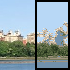
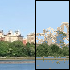
adjusting improved agent

Changed region(s): [[0.5143, 0.0, 1.0, 1.0], [0.6857, 0.7429, 0.7143, 0.7714]]

diff --git a/Report/Report.tex b/Report/Report.tex
@@ -37,7 +37,8 @@ We could measure the quality of the final result using P-Norms between the actua
 \includegraphics[width=.5\textwidth]{Test Image}
 \caption{In the above picture, the left is the training data and the right is the test data}
 \end{figure}
-The improved agent, or Color M.E. Happy (Mesmerizing Execution), functions in a similar way to the basic agent. To improve this agent, more color clusters (10 instead of 5) were considered and 5x5 clusters were used so the agent could have greater accuracery in choosing colors.\\
+The improved agent, or Color M.E. Happy (Mesmerizing Execution), functions in a similar way to the basic agent. To improve this agent, however, more color clusters (10 instead of 5) were considered. 3x3 clusters were still used so the agent could have greater accuracery in choosing colors since using 5x5 clusters showed to produce a lower quality image with a larger black border.\\
+With the improved agent, there is greater definition in the trees and the buildings have their own color and can be easily discerned from the background. The lake is also more accurate in terms of color.\\
 One of the reasons a linear model is a bad idea for colorizing an image is the fact that the data isn't really linear, and shouldn't be treated as such. Since each pixel, in the end, has to be represented by three separate values (RGB), a linear model can't accurately expresses how all three of these values interact and ultimately affect the final image.\\
 Ideally, with all the time, energy, and resources, the improved agent could use a strong parametric model that adjusts what color is chosen based, not only on the training data, but related pixels in the image being processed so the final result is more comprehensive. Neural networks, as proposed in the project description, could also be used to provide deeper training.
 

diff --git a/ImprovedAgent.py b/ImprovedAgent.py
@@ -10,7 +10,7 @@ from time import time
 
 nclusters = 10  # Given, number of color clusters
 change_convergence = 1  # Random small number decided for average change in cluster positions to declare convergence
-patch_width = 5  # Width and height of patch to match testing data with training data
+patch_width = 3  # Width and height of patch to match testing data with training data
 assert (patch_width % 2 == 1)
 
 
